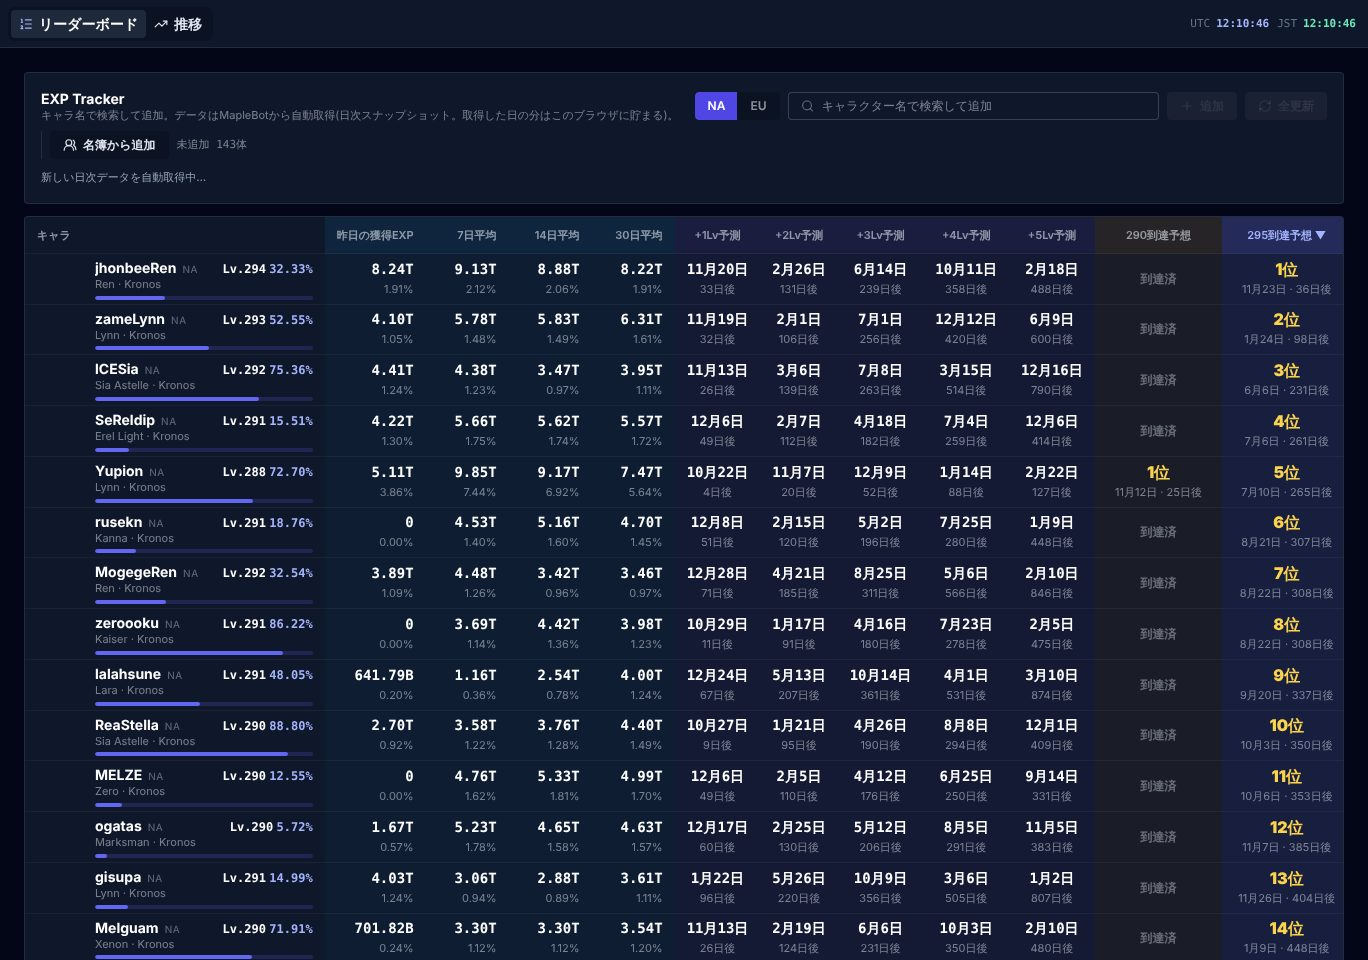
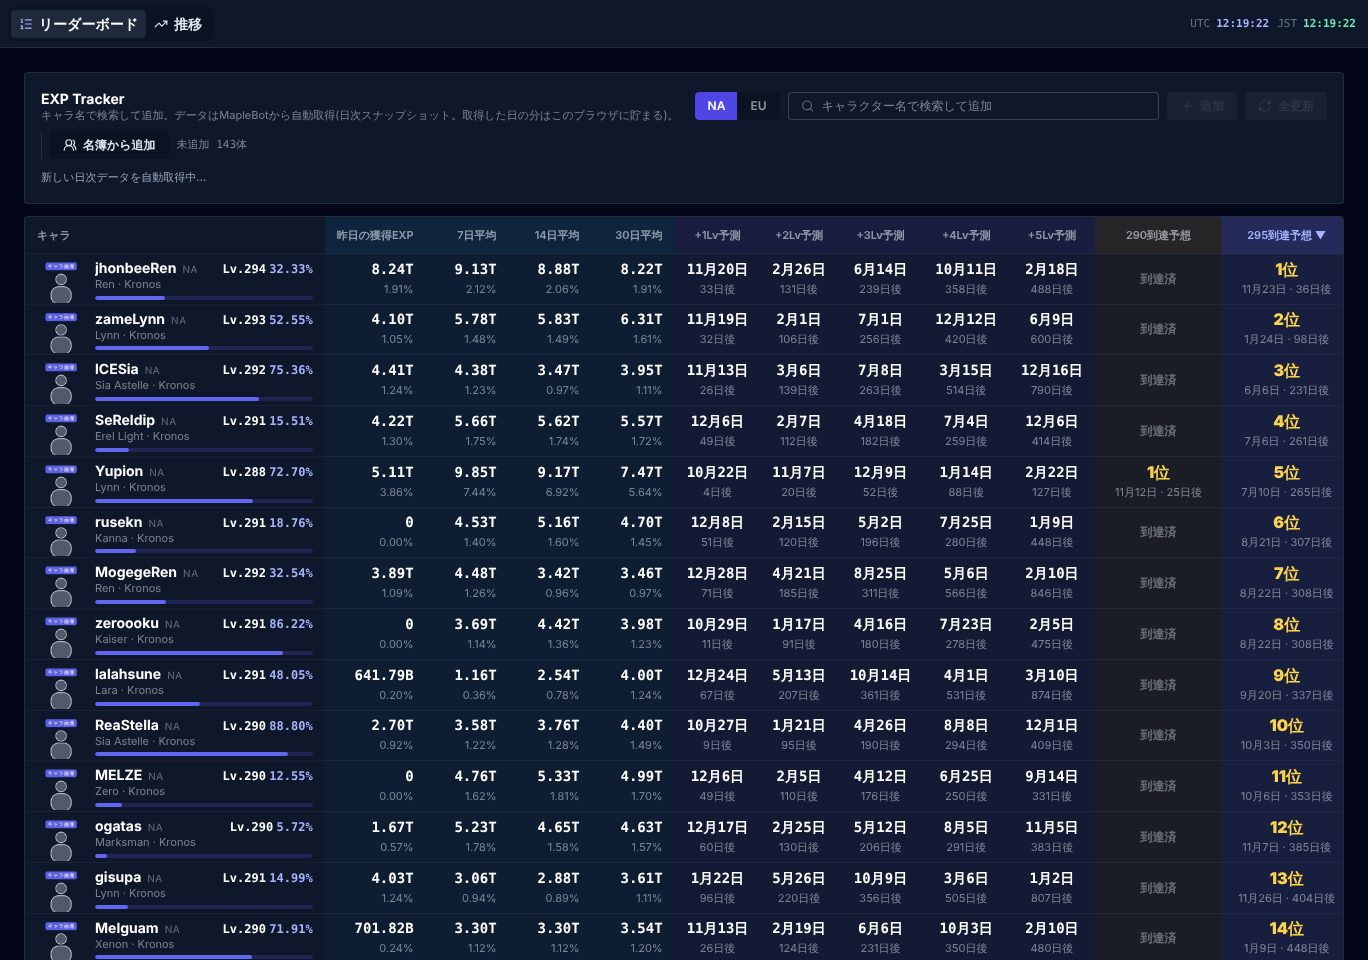
Guide: スクショの立ち絵の場所に「キャラ画像」の仮の絵を入れて撮り直す
Claude-Session: https://claude.ai/code/session_01MijUcVmWycZUQVcUuZQP2L

Changed region(s): [[0.0307, 0.25, 0.0614, 1.0]]

diff --git a/public/guide.js b/public/guide.js
@@ -141,7 +141,7 @@ const guide = {
                 <section class="card bg-base-100 border border-base-content/10"><div class="card-body">
                     <h3 class="card-title text-base">基本の操作</h3>
                     <ul class="guide-ul">${this.BASICS.map(t => `<li>${t}</li>`).join('')}</ul>
-                    <p class="text-xs text-base-content/50 mt-2">※ 画面は${this.SHOT_DATE}時点のものです。キャラの立ち絵は写していません。</p>
+                    <p class="text-xs text-base-content/50 mt-2">※ 画面は${this.SHOT_DATE}時点のものです。キャラの立ち絵の部分は「キャラ画像」の仮の絵にしています。</p>
                 </div></section>
 
                 ${sections}
